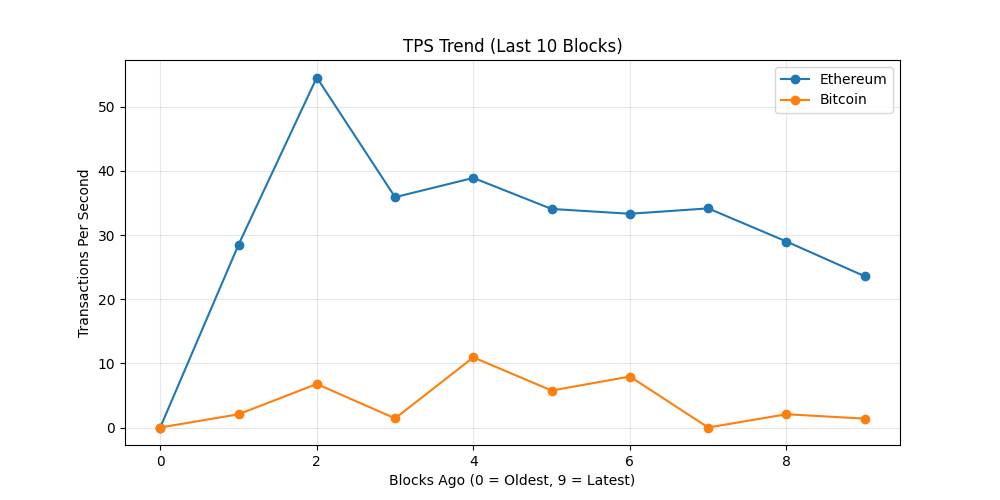
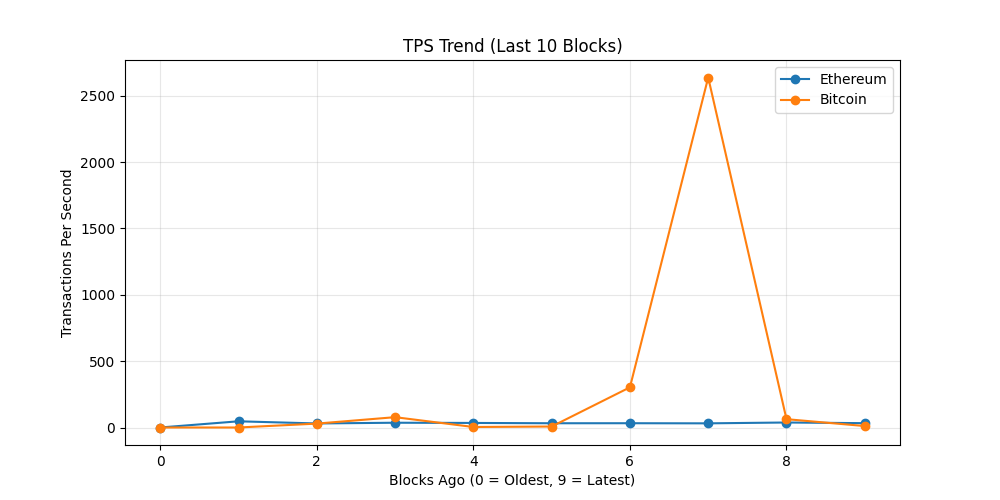
chore: update on-chain dashboard

diff --git a/README.md b/README.md
@@ -19,7 +19,7 @@ The README itself acts as the dashboard and is regenerated automatically on a 6 
 demonstrating a production-style, infrastructure-focused observability workflow rather
 than a traditional UI-driven approach.
 
-_Last updated: 2026-05-01 04:15 UTC_
+_Last updated: 2026-05-01 08:24 UTC_
 
 ## API Usage (GetBlock.io)
 - Calls used: **24**
@@ -27,8 +27,8 @@ _Last updated: 2026-05-01 04:15 UTC_
 ## Network Metrics
 | Chain | Block Height | TX Count | TPS (10 blk avg) | Block Util | Avg Fee |
 |------|-------------|----------|------------------|------------|---------|
-| Ethereum | 24997636 | 283 | 23.58 | 45.81% | 0.2 Gwei |
-| Bitcoin | 947373 | 2533 | 1.38 | 99.8% | N/A |
+| Ethereum | 24998877 | 391 | 32.58 | 42.82% | 0.2 Gwei |
+| Bitcoin | 947405 | 4984 | 10.93 | 99.8% | N/A |
 
 ## Visuals
 ### Transactions Trend
@@ -43,11 +43,11 @@ _Last updated: 2026-05-01 04:15 UTC_
 ## Whale Alerts (latest block)
 - Transaction hashes are truncated for readability.
 - Full hashes are available in `dashboards/metrics.json`
-- Bitcoin | 118.57 BTC | `efa8c2829f8b…`
-- Bitcoin | 326.54 BTC | `61db6eb03cc3…`
-- Bitcoin | 123.11 BTC | `695988be20fe…`
-- Bitcoin | 150.01 BTC | `fd442093f392…`
-- Bitcoin | 825.55 BTC | `8617cdb8c30e…`
+- Bitcoin | 1729.46 BTC | `0cdb31637933…`
+- Bitcoin | 860.63 BTC | `502bbdc56377…`
+- Bitcoin | 232.38 BTC | `d8038508de26…`
+- Bitcoin | 426.95 BTC | `f3d23e168f2d…`
+- Bitcoin | 119.21 BTC | `38ce6ea4191a…`
 
 ## Run locally
 
